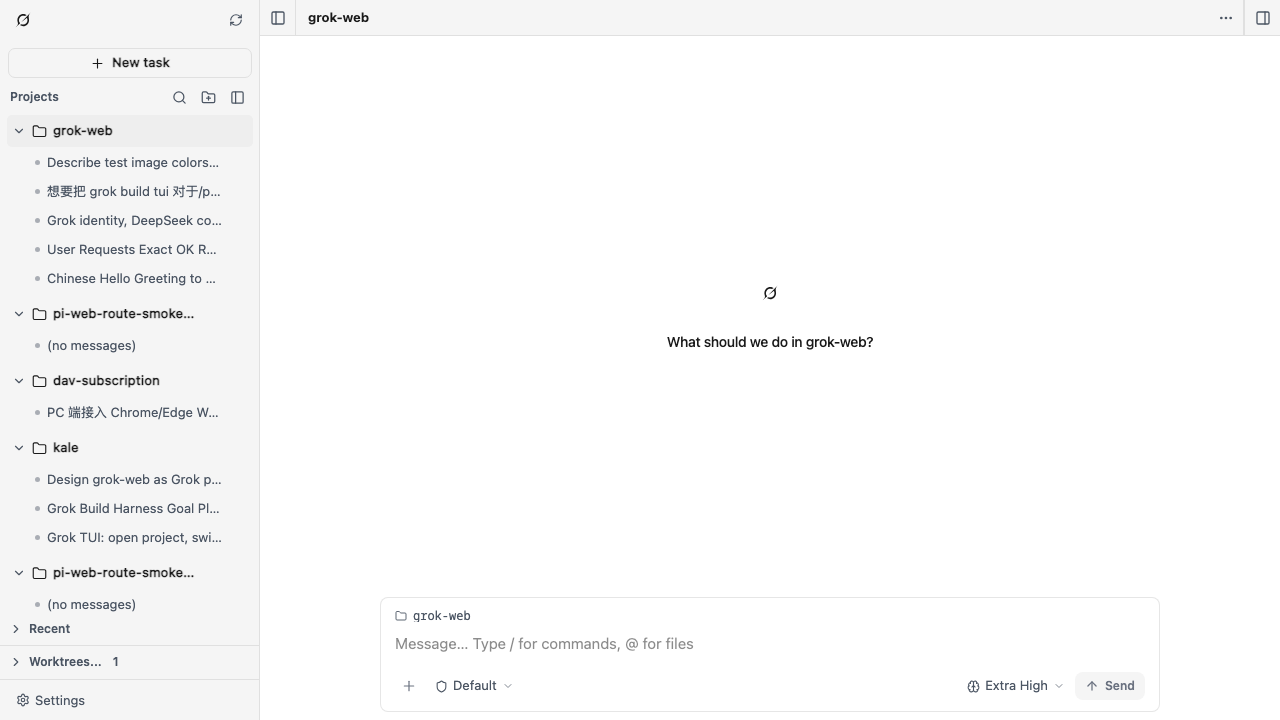
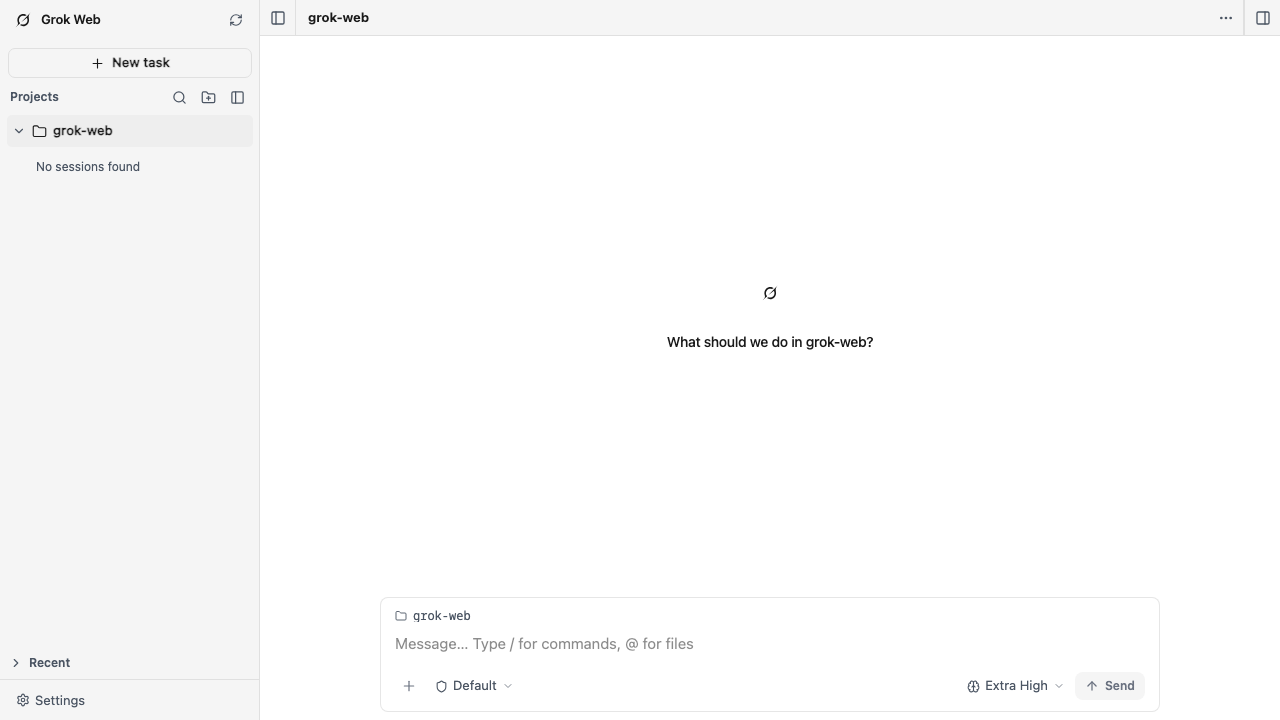
fix: keep the README screenshot off the personal pi-web workspace
Shoot the operate shell from an isolated Grok home so the public image shows Grok Web, not leftover pi-web sessions.

diff --git a/app/globals.css b/app/globals.css
@@ -1007,6 +1007,8 @@ pre, code {
 .codex-sidebar-brand {
   display: flex;
   align-items: center;
+  min-width: 0;
+  gap: 8px;
 }
 .codex-sidebar-brand-logo {
   display: block;
@@ -1015,6 +1017,16 @@ pre, code {
   background: var(--text);
   -webkit-mask: url("/icons/logo.svg") center / contain no-repeat;
   mask: url("/icons/logo.svg") center / contain no-repeat;
+  flex-shrink: 0;
+}
+.codex-sidebar-brand-name {
+  font-size: 13px;
+  font-weight: 600;
+  letter-spacing: -0.02em;
+  color: var(--text);
+  white-space: nowrap;
+  overflow: hidden;
+  text-overflow: ellipsis;
 }
 .codex-sidebar-workspace-toolbar {
   height: 32px;

diff --git a/components/CodexSidebar.tsx b/components/CodexSidebar.tsx
@@ -664,8 +664,9 @@ export function CodexSidebar({
       )}
 
       <header className="codex-sidebar-brand-header">
-        <div className="codex-sidebar-brand">
-          <span className="codex-sidebar-brand-logo" role="img" aria-label="Grok" />
+        <div className="codex-sidebar-brand" aria-label="Grok Web">
+          <span className="codex-sidebar-brand-logo" role="img" aria-hidden="true" />
+          <span className="codex-sidebar-brand-name">Grok Web</span>
         </div>
         <IconButton label={t("sidebar.refresh")} onClick={() => void loadData(true)}>
           <RefreshCw size={14} aria-hidden="true" />

diff --git a/e2e/smoke.spec.ts b/e2e/smoke.spec.ts
@@ -7,7 +7,7 @@ const screenshotPath = join(process.cwd(), "docs/images/operate-shell.png");
 test("loads the operate shell in front of a live grok workspace", async ({ page }) => {
   await page.goto("/");
   await expect(page).toHaveTitle(/Grok Web/);
-  await expect(page.getByRole("img", { name: "Grok" })).toBeVisible({ timeout: 30_000 });
+  await expect(page.getByText("Grok Web", { exact: true }).first()).toBeVisible({ timeout: 30_000 });
   await expect(page.getByRole("button", { name: /new task/i })).toBeVisible();
   await expect(page.getByLabel(/message/i)).toBeVisible({ timeout: 30_000 });
 

diff --git a/CONTRIBUTING.md b/CONTRIBUTING.md
@@ -31,7 +31,7 @@ npx playwright install chromium
 npm run test:e2e
 ```
 
-starts Vite on `127.0.0.1:30143` and checks that the operate shell loads. It needs `grok` on `PATH`. It does not send a model prompt. Refresh the README screenshot with `GROK_WEB_UPDATE_SCREENSHOTS=1 npm run test:e2e`.
+starts Vite on `127.0.0.1:30143` and checks that the operate shell loads. It needs `grok` on `PATH`. It does not send a model prompt. Refresh the README screenshot with `npm run shot`. That uses an isolated Grok home so personal sessions stay out of the image.
 
 ## Pull requests
 
